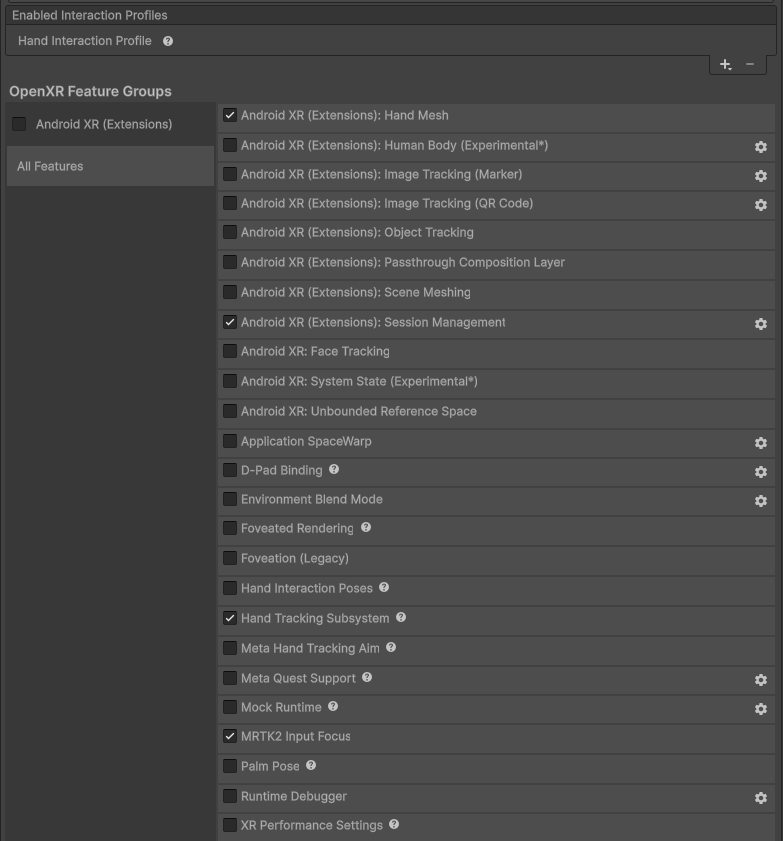
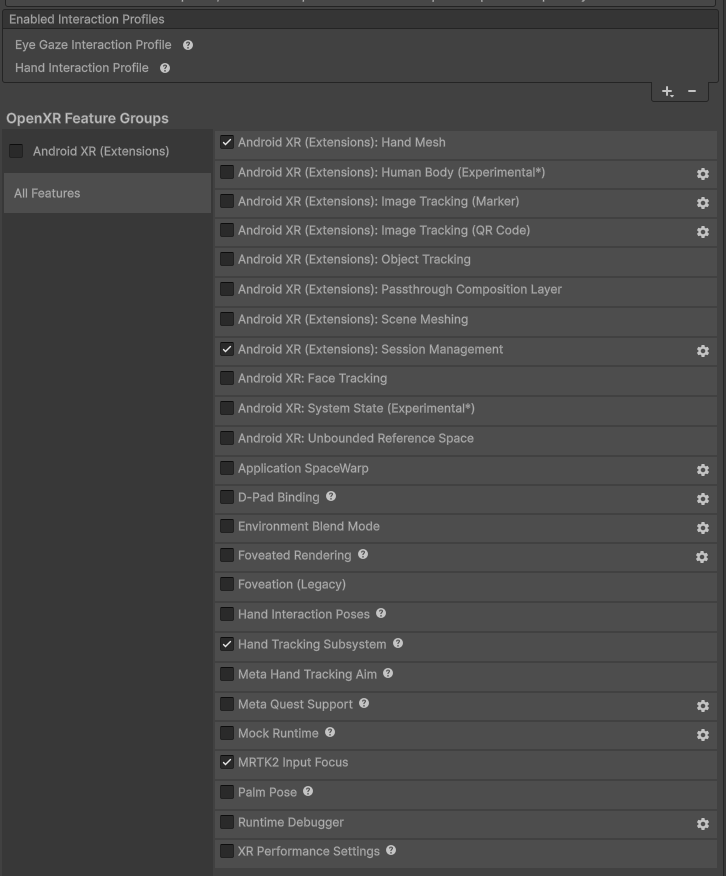
Add support for XR_EXT_eye_gaze_interaction with Android XR's permission string (#10)
* Update package.json

* Add custom eye tracking data provider to request ET permission

Update OpenXREyeGazeProvider.cs

* Add extension check for HaT

* Update docs

---------

diff --git a/com.qualcomm.mixedreality.toolkit.addon/Runtime/OpenXREyeGazeProvider.cs b/com.qualcomm.mixedreality.toolkit.addon/Runtime/OpenXREyeGazeProvider.cs
@@ -1,0 +1,93 @@
+// Copyright (c) Qualcomm Technologies, Inc. and/or its subsidiaries.
+// SPDX-License-Identifier: MIT
+
+using Microsoft.MixedReality.Toolkit;
+using Microsoft.MixedReality.Toolkit.Input;
+using Microsoft.MixedReality.Toolkit.Utilities;
+using Microsoft.MixedReality.Toolkit.XRSDK.OpenXR;
+using UnityEngine;
+
+#if UNITY_ANDROID && !UNITY_EDITOR
+using UnityEngine.Android;
+using UnityEngine.XR.OpenXR;
+#endif
+
+namespace Qualcomm.MixedReality.Toolkit.OpenXR
+{
+    [MixedRealityDataProvider(
+        typeof(IMixedRealityInputSystem),
+        (SupportedPlatforms)(-1),
+        "OpenXR Eye Gaze Provider",
+        "Profiles/DefaultMixedRealityEyeTrackingProfile.asset", "MixedRealityToolkit.SDK",
+        true,
+        SupportedUnityXRPipelines.XRSDK)]
+    public class OpenXREyeGazeProvider : OpenXREyeGazeDataProvider
+    {
+        /// <summary>
+        /// Constructor.
+        /// </summary>
+        /// <param name="inputSystem">The <see cref="Microsoft.MixedReality.Toolkit.Input.IMixedRealityInputSystem"/> instance that receives data from this provider.</param>
+        /// <param name="name">Friendly name of the service.</param>
+        /// <param name="priority">Service priority. Used to determine order of instantiation.</param>
+        /// <param name="profile">The service's configuration profile.</param>
+        public OpenXREyeGazeProvider(
+            IMixedRealityInputSystem inputSystem,
+            string name,
+            uint priority,
+            BaseMixedRealityProfile profile) : base(inputSystem, name, priority, profile) { }
+
+        /// <inheritdoc />
+        public override void Enable()
+        {
+            base.Enable();
+
+            if (IsEnabled)
+            {
+                RequestPermission();
+            }
+        }
+
+        private void RequestPermission()
+        {
+#if UNITY_ANDROID && !UNITY_EDITOR
+            if (!OpenXRRuntime.IsExtensionEnabled("XR_EXT_eye_gaze_interaction"))
+            {
+                // The corresponding OpenXR extension isn't enabled, so we don't need the permission
+                return;
+            }
+
+            if (!Permission.HasUserAuthorizedPermission(EyeTrackingPermission))
+            {
+                PermissionCallbacks callbacks = new();
+                callbacks.PermissionDenied += OnPermissionDenied;
+                callbacks.PermissionGranted += OnPermissionGranted;
+
+                Permission.RequestUserPermission(EyeTrackingPermission, callbacks);
+                Debug.Log($"MRTK is requesting {EyeTrackingPermission}.");
+            }
+            else
+            {
+                Debug.Log($"{EyeTrackingPermission} already granted for MRTK.");
+            }
+        }
+
+        private const string EyeTrackingPermission = "android.permission.EYE_TRACKING_FINE";
+
+        void OnPermissionDenied(string permission)
+        {
+            if (permission == EyeTrackingPermission)
+            {
+                Debug.Log($"{EyeTrackingPermission} denied or not needed on this runtime ({OpenXRRuntime.name}). MRTK eye tracking may not work as expected.");
+            }
+        }
+
+        void OnPermissionGranted(string permission)
+        {
+            if (permission == EyeTrackingPermission)
+            {
+                Debug.Log($"{EyeTrackingPermission} newly granted for MRTK.");
+            }
+#endif // UNITY_ANDROID && !UNITY_EDITOR
+        }
+    }
+}

diff --git a/com.qualcomm.mixedreality.toolkit.addon/Runtime/OpenXRDeviceManager.cs b/com.qualcomm.mixedreality.toolkit.addon/Runtime/OpenXRDeviceManager.cs
@@ -30,6 +30,13 @@ namespace Qualcomm.MixedReality.Toolkit.OpenXR
             BaseMixedRealityProfile profile = null) : base(inputSystem, name, priority, profile)
         {
 #if UNITY_ANDROID && !UNITY_EDITOR
+            if (!OpenXRRuntime.IsExtensionEnabled("XR_EXT_hand_tracking") &&
+                !OpenXRRuntime.IsExtensionEnabled(AndroidXRHandMeshProvider.OpenXRExtension))
+            {
+                // The corresponding OpenXR extensions aren't enabled, so we don't need the permission
+                return;
+            }
+
             if (!Permission.HasUserAuthorizedPermission(HandTrackingPermission))
             {
                 PermissionCallbacks callbacks = new();

diff --git a/com.qualcomm.mixedreality.toolkit.addon/Documentation~/README.md b/com.qualcomm.mixedreality.toolkit.addon/Documentation~/README.md
@@ -13,6 +13,11 @@
 
     ![Update data providers](images/update-data-providers.png)
 
+1. (Optional) If using eye tracking for input: expand your input data providers and update your existing OpenXR XRSDK Eye Gaze Data Provider to the new OpenXREyeGazeProvider under the `Qualcomm.MixedReality.Toolkit.OpenXR` namespace.
+    1. This new data provider remains compatible with the same platforms supported by the previous provider, but now includes expanded support for new platforms, like Android XR.
+
+    ![Update data provider for eye tracking](images/update-data-providers-et.png)
+
 1. Expand your controller mappings (or clone the built-in OpenXRControllerMappingProfile, if you don't already have a custom profile for OpenXR) and run the Controller Mapping Profiles updater.
 
     ![Clone controller mapping profile](images/clone-controller-mapping-profile.png)
@@ -40,6 +45,7 @@
     1. For OpenXR spec-conformant use of this package, ensure the MRTK2 Input Focus feature is enabled.
         1. There is a Project Validation rule to enforce this which will cause a build error if not enabled.
     1. For hand interactions (airtap, grab, etc.), ensure the Hand Interaction Profile is enabled.
+    1. For eye tracking, ensure the Eye Gaze Interaction Profile is enabled.
     1. For hand joint tracking, ensure Hand Tracking Subsystem is checked.
     1. For hand mesh, ensure Android XR (Extensions): Hand Mesh and Android XR (Extensions): Session Management are checked.
 

diff --git a/com.qualcomm.mixedreality.toolkit.addon/Documentation~/CHANGELOG.md b/com.qualcomm.mixedreality.toolkit.addon/Documentation~/CHANGELOG.md
@@ -2,6 +2,10 @@
 
 The format is based on [Keep a Changelog](https://keepachangelog.com/en/1.1.0/).
 
+## [1.1.0] - 2025-02-27
+
+* Adds support for XR_EXT_eye_gaze_interaction
+
 ## [1.0.0] - 2025-12-08
 
 * Initial release
